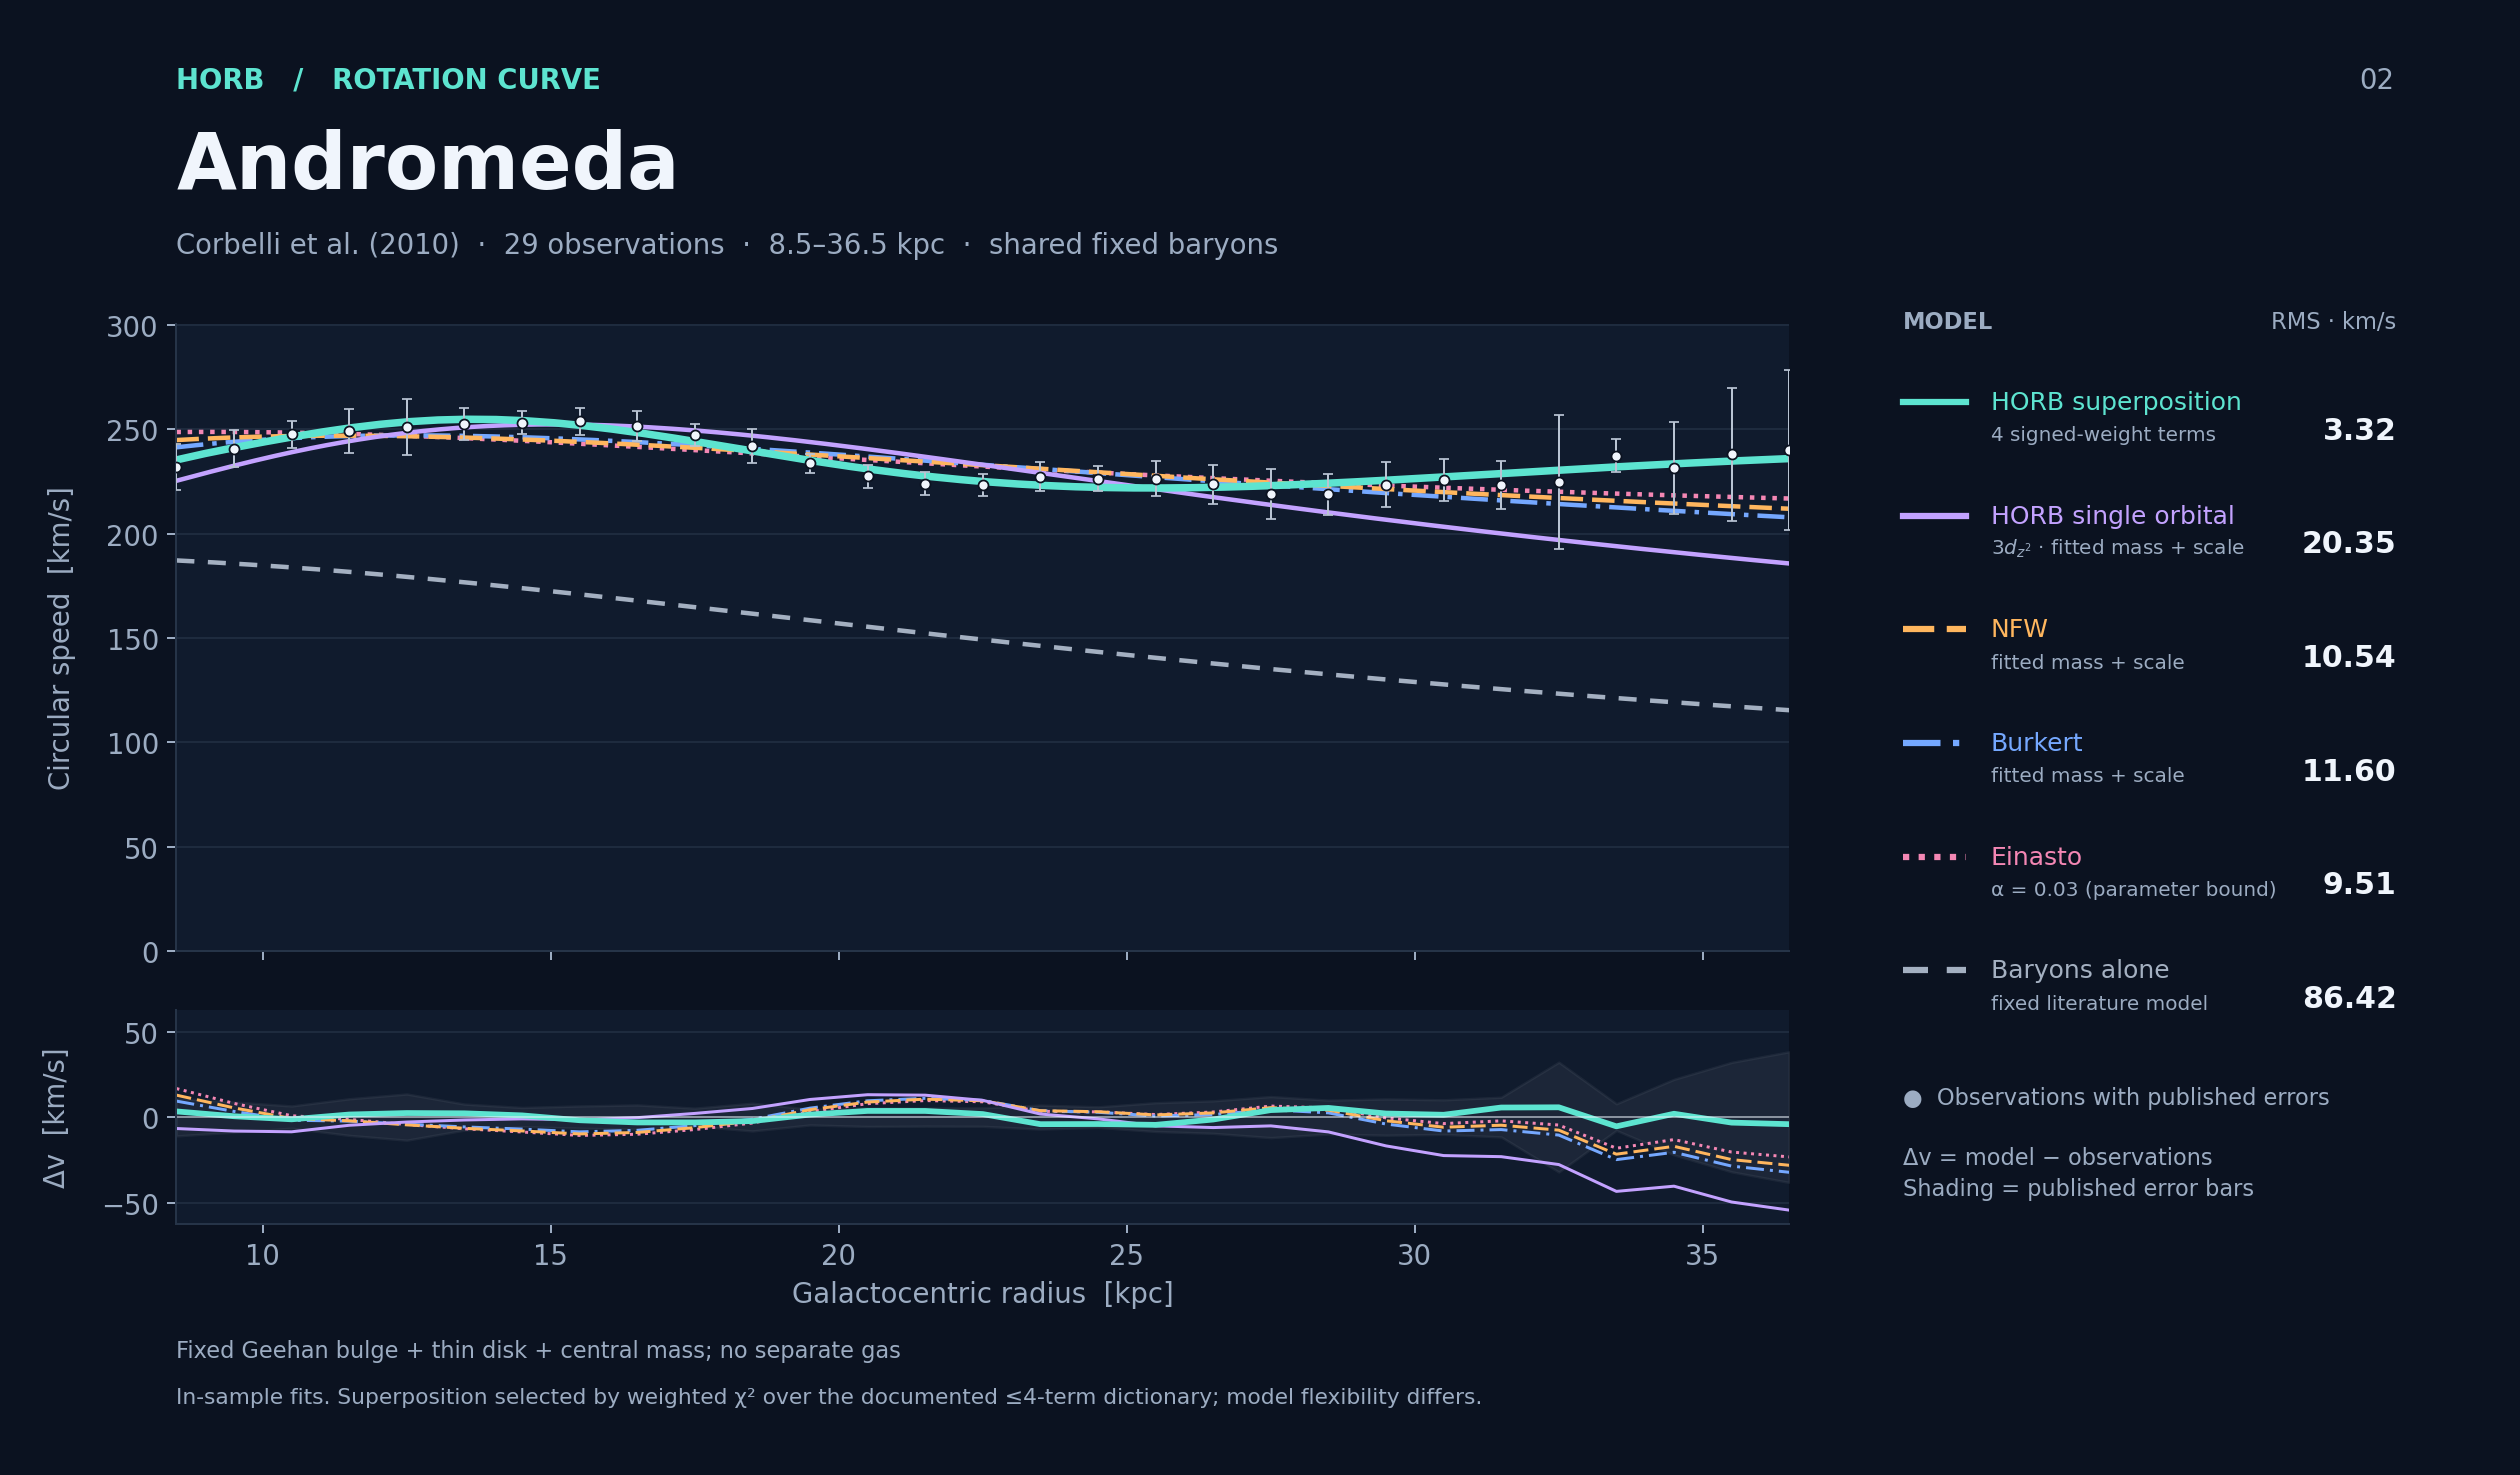
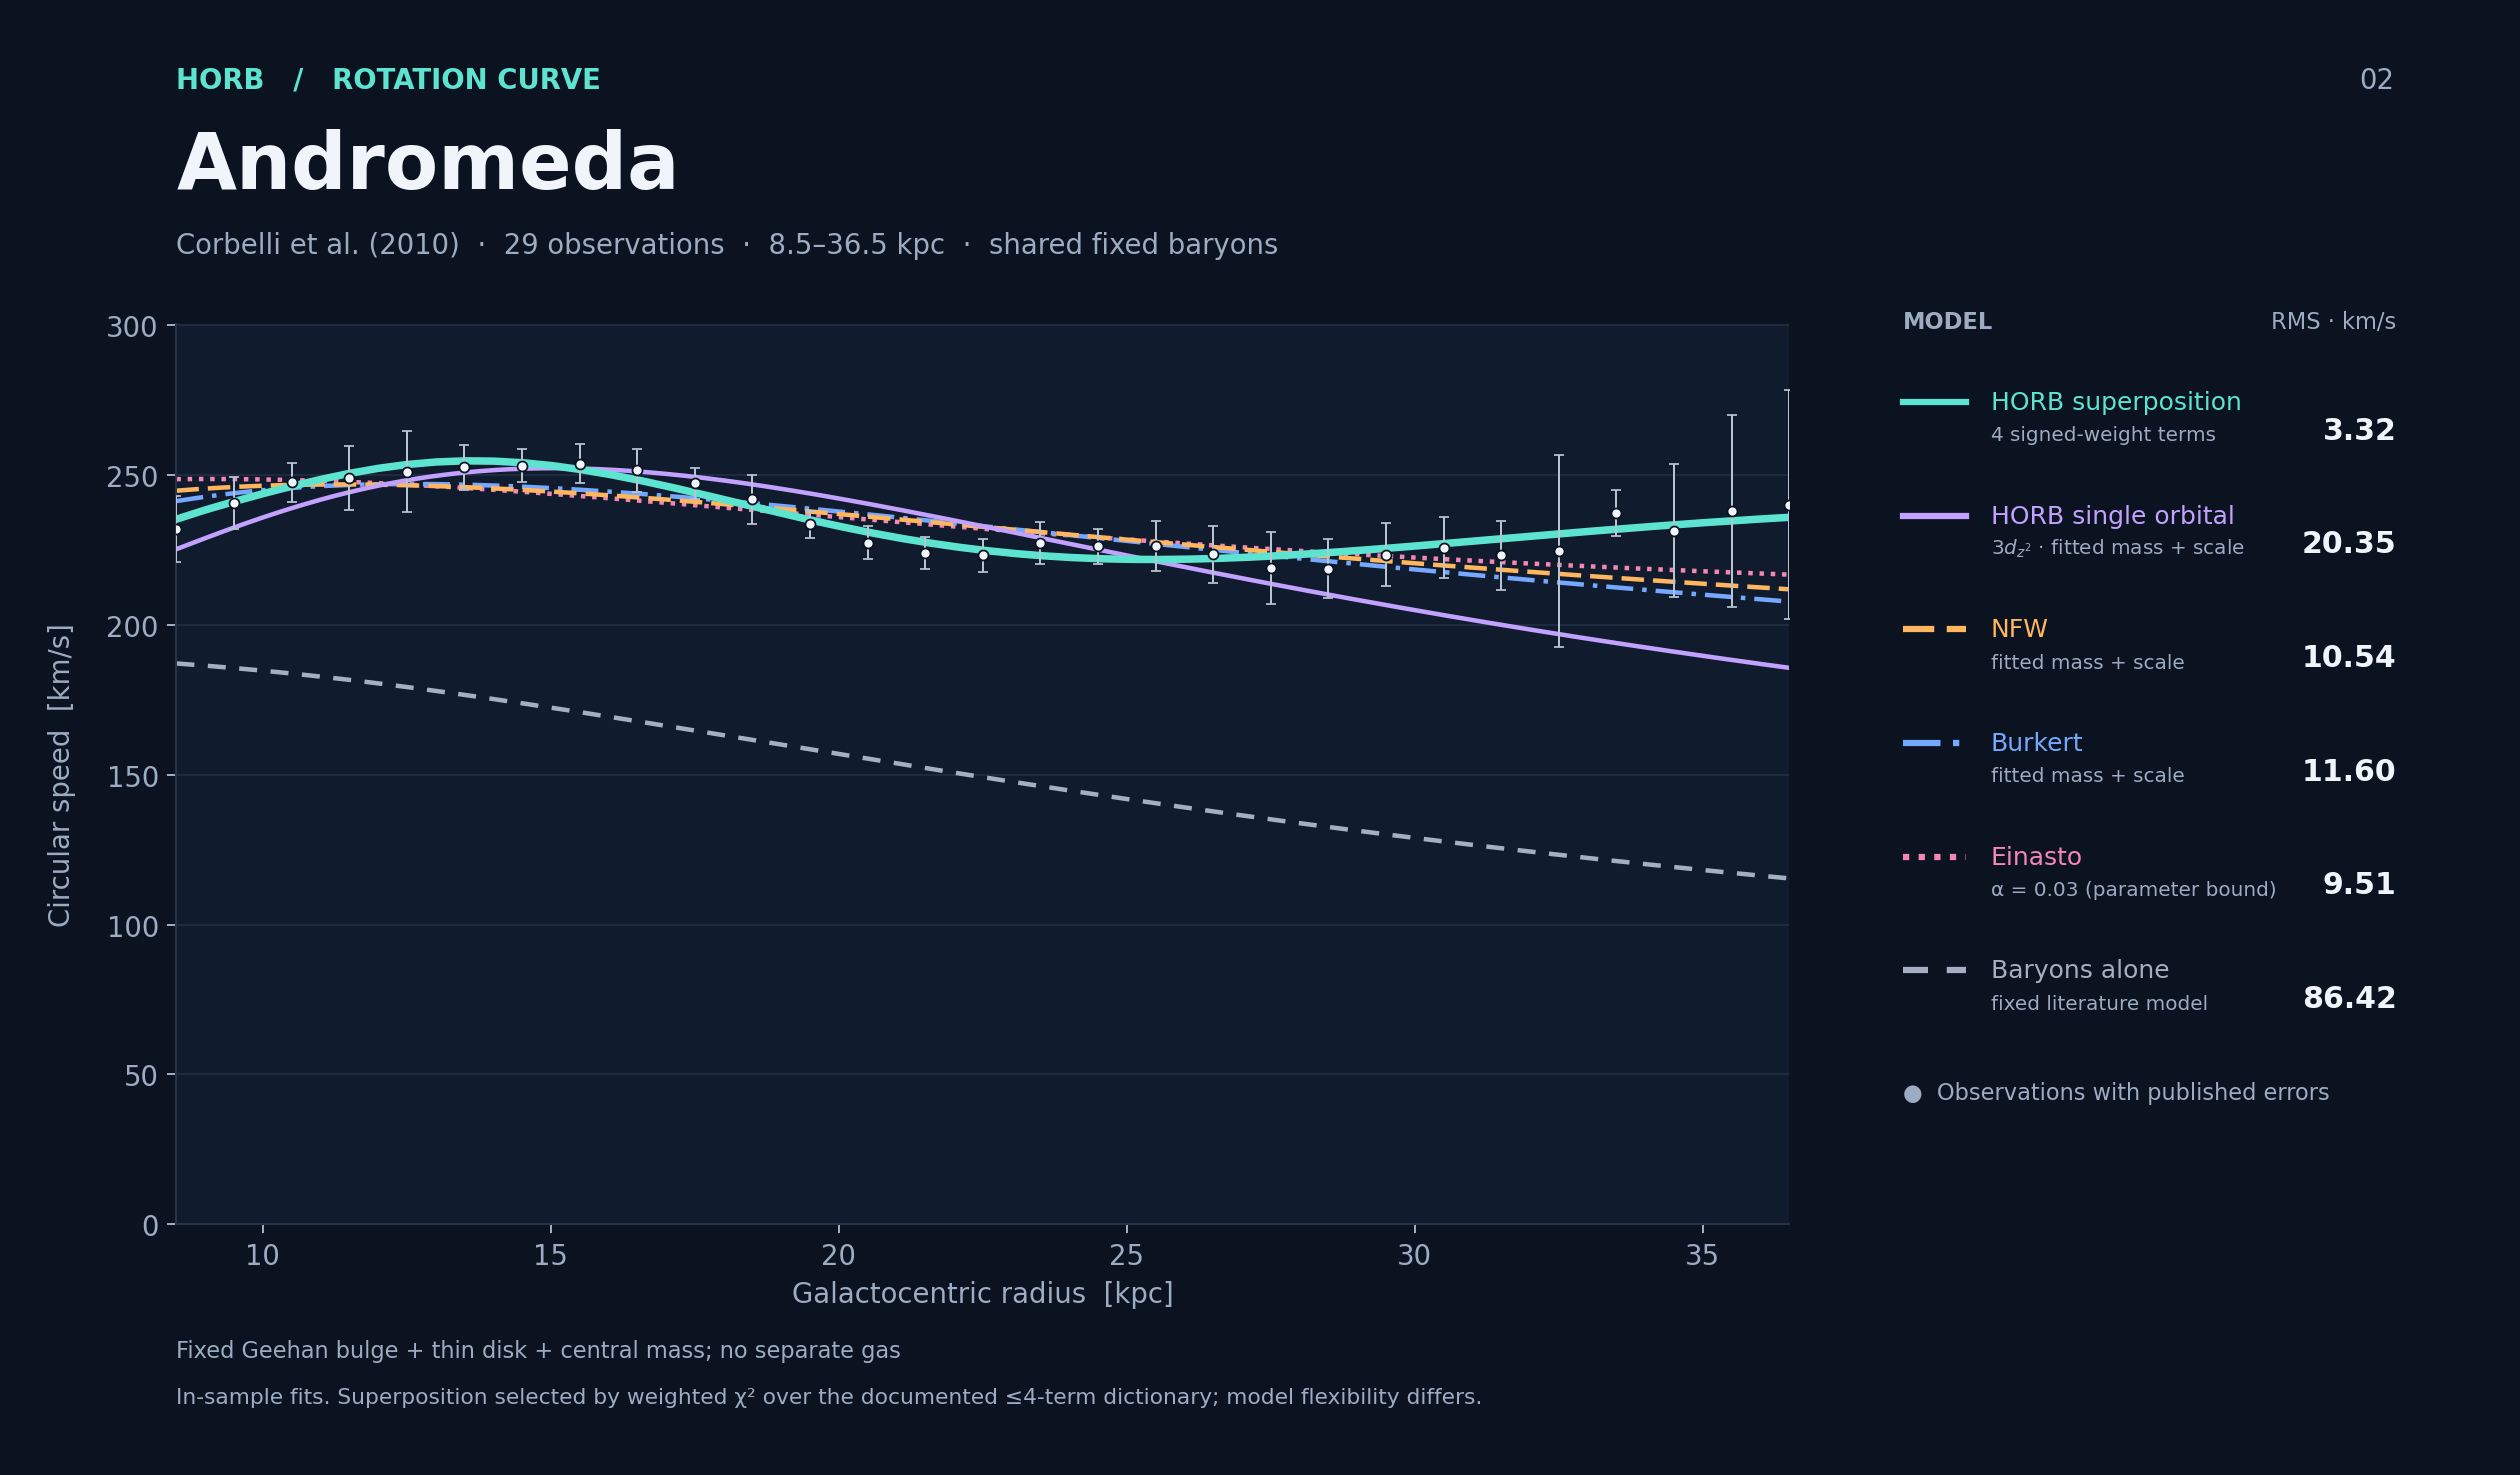
Enlarge README rotation curves and remove residual panels

diff --git a/scripts/make_readme_highlights.py b/scripts/make_readme_highlights.py
@@ -66,31 +66,20 @@ def rotation_figure(galaxy, r, curves, obs, predictions, scores, report, output)
     g = GALAXIES[galaxy]
     lo, hi = report["r_fit_requested_kpc"]
     header(fig, galaxy, "Rotation curve", f"{g['source']}  ·  {len(obs)} observations  ·  {lo:g}–{hi:g} kpc  ·  shared fixed baryons")
-    ax = fig.add_axes([.07, .355, .64, .425])
-    res = fig.add_axes([.07, .17, .64, .145], sharex=ax)
+    # Use the full chart height for the rotation curves alongside their RMS.
+    ax = fig.add_axes([.07, .17, .64, .61])
     # Draw the selected superposition last so its path stays visible at overlaps.
     for name in reversed(MODELS):
         ax.plot(r, curves[name], color=COLORS[name], ls=STYLES[name],
                 lw=3 if name == "superposition" else 1.8, zorder=3 if name == "superposition" else 2)
-        if name != "baryons":
-            res.plot(obs["R_kpc"], predictions[name]-obs["Vobs_kms"], color=COLORS[name],
-                     ls=STYLES[name], lw=2.3 if name == "superposition" else 1.2)
     ax.errorbar(obs["R_kpc"], obs["Vobs_kms"], yerr=obs["eV_kms"], fmt="o", ms=4,
                 mfc=INK, mec=BG, mew=.7, ecolor="#b9c4d3", elinewidth=.8, capsize=2, zorder=5)
-    res.axhline(0, color=INK, alpha=.5, lw=.8)
-    res.fill_between(obs["R_kpc"], -obs["eV_kms"], obs["eV_kms"], color=INK, alpha=.055)
-    for a in (ax, res):
-        a.grid(axis="y")
-        a.spines[["top", "right"]].set_visible(False)
-        a.set_xlim(lo, hi)
-    ax.tick_params(labelbottom=False)
+    ax.grid(axis="y")
+    ax.spines[["top", "right"]].set_visible(False)
+    ax.set_xlim(lo, hi)
+    ax.set_xlabel("Galactocentric radius  [kpc]")
     ax.set_ylabel("Circular speed  [km/s]", labelpad=12)
     ax.set_ylim(0, max(np.max(obs["Vobs_kms"]+obs["eV_kms"]), max(np.max(v) for v in curves.values()))*1.08)
-    res.set(xlabel="Galactocentric radius  [kpc]", ylabel="Δv  [km/s]")
-    res.yaxis.labelpad = 12
-    # Residuals show all five halo models; baryons-only is in the main panel.
-    limit = max(10, max(np.max(np.abs(predictions[n]-obs["Vobs_kms"])) for n in MODELS if n != "baryons")*1.15)
-    res.set_ylim(-limit, limit)
     fig.text(.755, .777, "MODEL", color=MUTED, size=9, weight="bold")
     fig.text(.951, .777, "RMS · km/s", color=MUTED, size=9, ha="right")
     for i, name in enumerate(MODELS):
@@ -105,7 +94,7 @@ def rotation_figure(galaxy, r, curves, obs, predictions, scores, report, output)
         if name == "einasto" and scores[name]["bound_reached"]:
             description = f"α = {scores[name]['parameters'][2]:g} (parameter bound)"
         fig.text(.79, y-.026, description, color=MUTED, size=8)
-    fig.text(.755, .19, "●  Observations with published errors\n\nΔv = model − observations\nShading = published error bars", size=9, color=MUTED, linespacing=1.4)
+    fig.text(.755, .255, "●  Observations with published errors", size=9, color=MUTED)
     fig.text(.07, .080, g["note"], color=MUTED, size=9)
     fig.text(.07, .049, "In-sample fits. Superposition selected by weighted χ² over the documented ≤4-term dictionary; model flexibility differs.", color=MUTED, size=8.7)
     save(fig, output)

diff --git a/docs/readme_highlights.md b/docs/readme_highlights.md
@@ -76,8 +76,9 @@ same observations:
 
 The displayed RMS is the unweighted velocity residual RMS, not the optimized
 statistic and not reduced χ². The score tables also record χ² and χ²/N. The
-plots show only the fitted radial interval. Residual panels show the five halo
-models; the baryons-only curve is shown in the main panel.
+plots show only the fitted radial interval. Each README rotation figure uses
+one full-height panel for all six curves, with per-model RMS values alongside
+it. The separate signed-density figure follows below it in the README.
 
 ## What “best superposition” means
 
